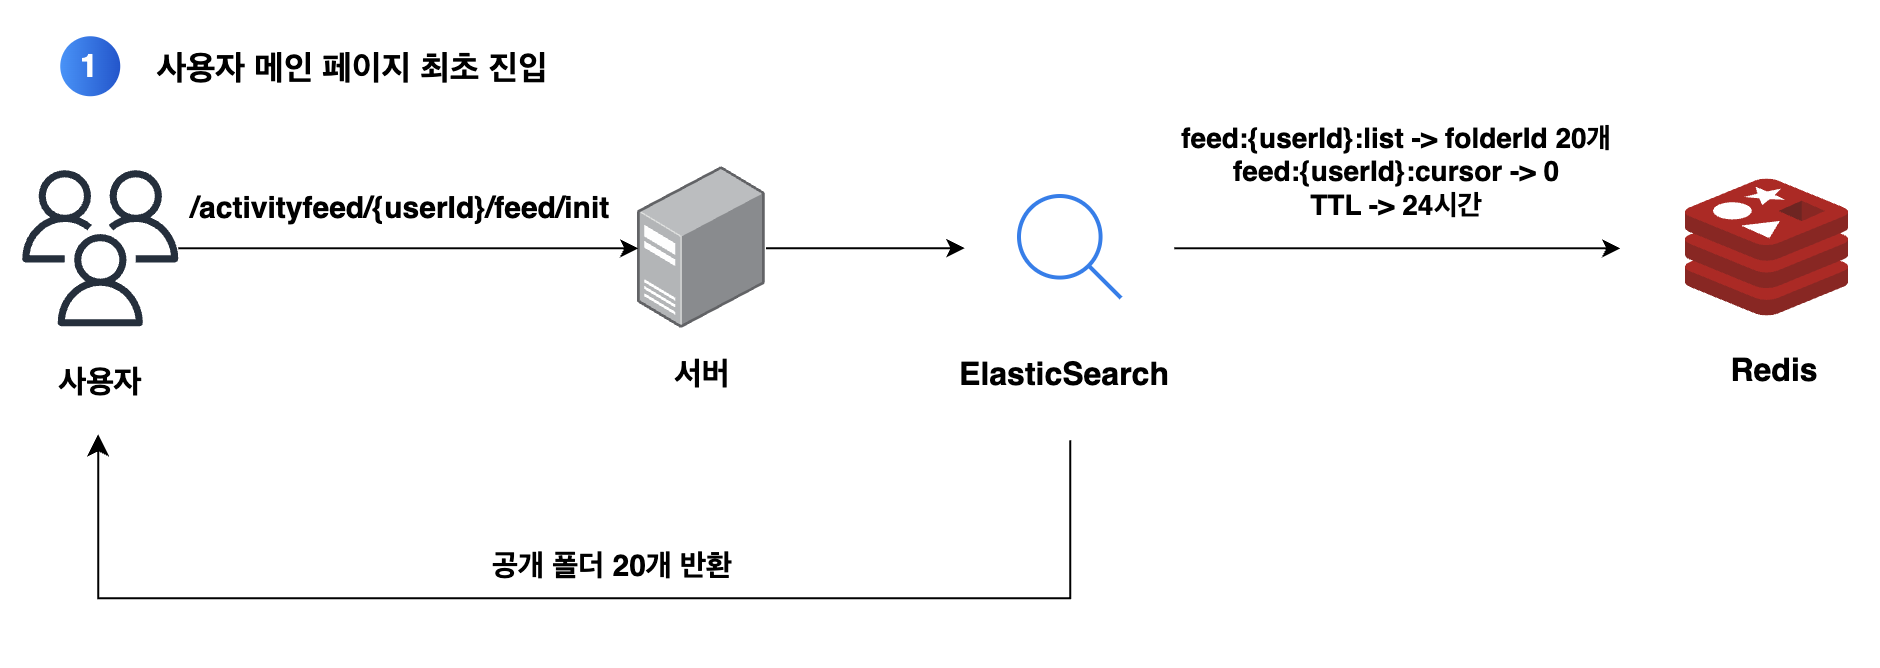
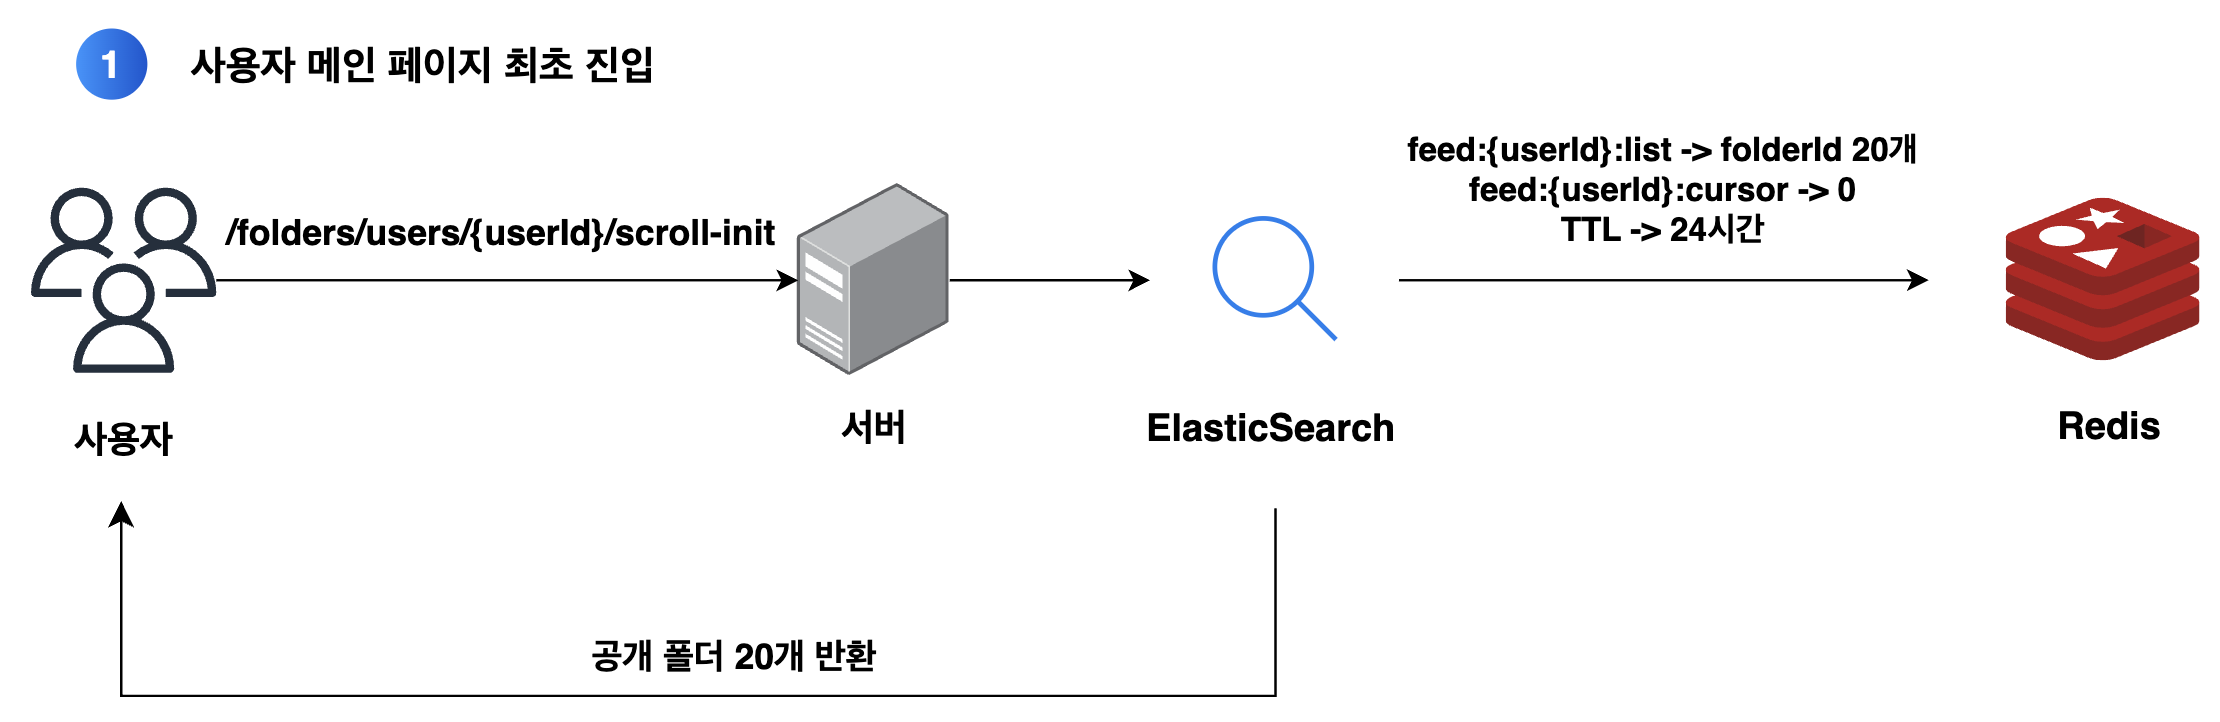
chore : feature-elasticsearch.md 설명 수정

diff --git a/docs/feature-elasticsearch.md b/docs/feature-elasticsearch.md
@@ -49,16 +49,16 @@ RDB 기반 LIKE 검색의 성능 한계를 극복하고, 실시간으로 최신 
 
 - 사용자 MainPage 접속 시, 먼저 다음과 같은 api 호출
 ```api
-/acitivtyfeed/{userId}/feed/scroll
+/folders/users/{userId}/scroll
 ```
 - Redis에 키가 존재하면 HTTP 응답 코드 200로 폴더 조회
 - 키가 존재하지 않은다면 HTTP 응답 코드 204으로 밑 api 요청
 ```api
-/acitivtyfeed/{userId}/feed/init
+/folders/users/{userId}/scroll-init
 ```
 - 사용자가 무한 스크롤을 계속하면로 요청
 ```api
-/acitivtyfeed/{userId}/feed/scroll
+/folders/users/{userId}/scroll
 ```
 
 
@@ -67,7 +67,7 @@ RDB 기반 LIKE 검색의 성능 한계를 극복하고, 실시간으로 최신 
 2. 최초 진입시 서버 동작
 - 다음과 같은 api의 동작 순서
 ```api
-/acitivtyfeed/{userId}/feed/init
+/folders/users/{userId}/scroll-init
 ```
 - 서버는 Elasticsearch에서 최신 공개 폴더 20개를 조회해서 클라이언트에게 응답
 - 서버는 향후 사용자에게 제공할 폴더 ID 목록 20개를 Redis에 저장 후 cursor는 0으로 저장됨
@@ -81,7 +81,7 @@ RDB 기반 LIKE 검색의 성능 한계를 극복하고, 실시간으로 최신 
 
 3. 사용자 무한 스크롤시 서버 동작
 ```api
-/acitivtyfeed/{userId}/feed/scroll
+/folders/users/{userId}/scroll
 ```
 - Redis에서 사용자별 list와 cursor를 조회
 - list에서 읽는 folderId들을 elasticsearch에서 가져와 클라이언트에게 반환
